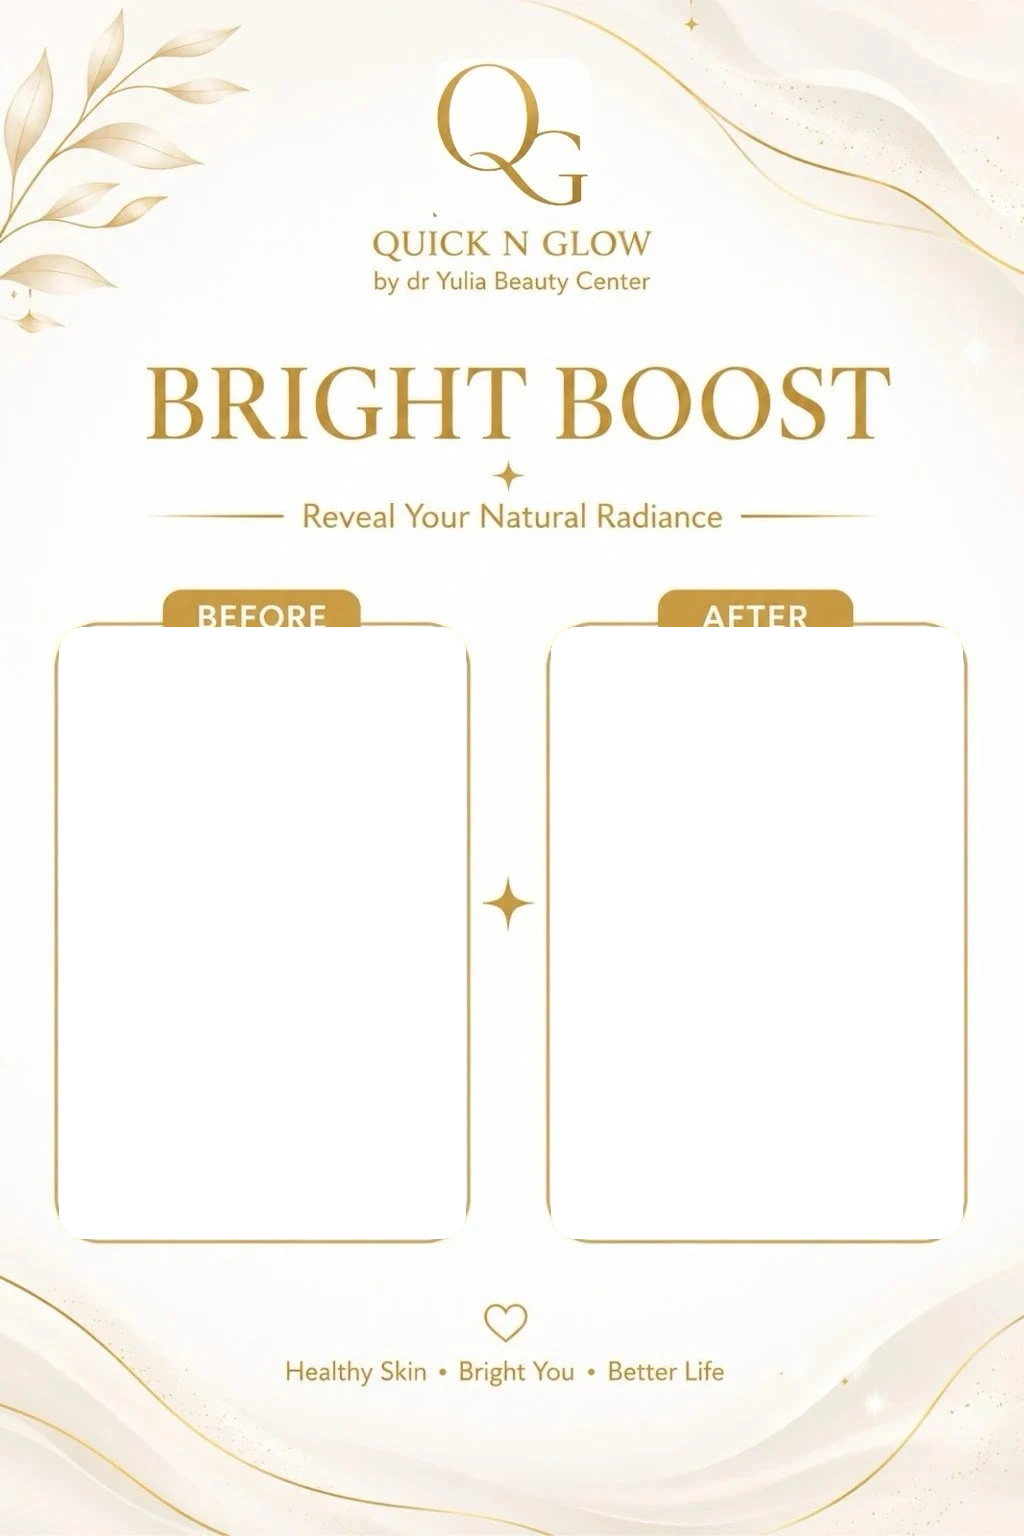
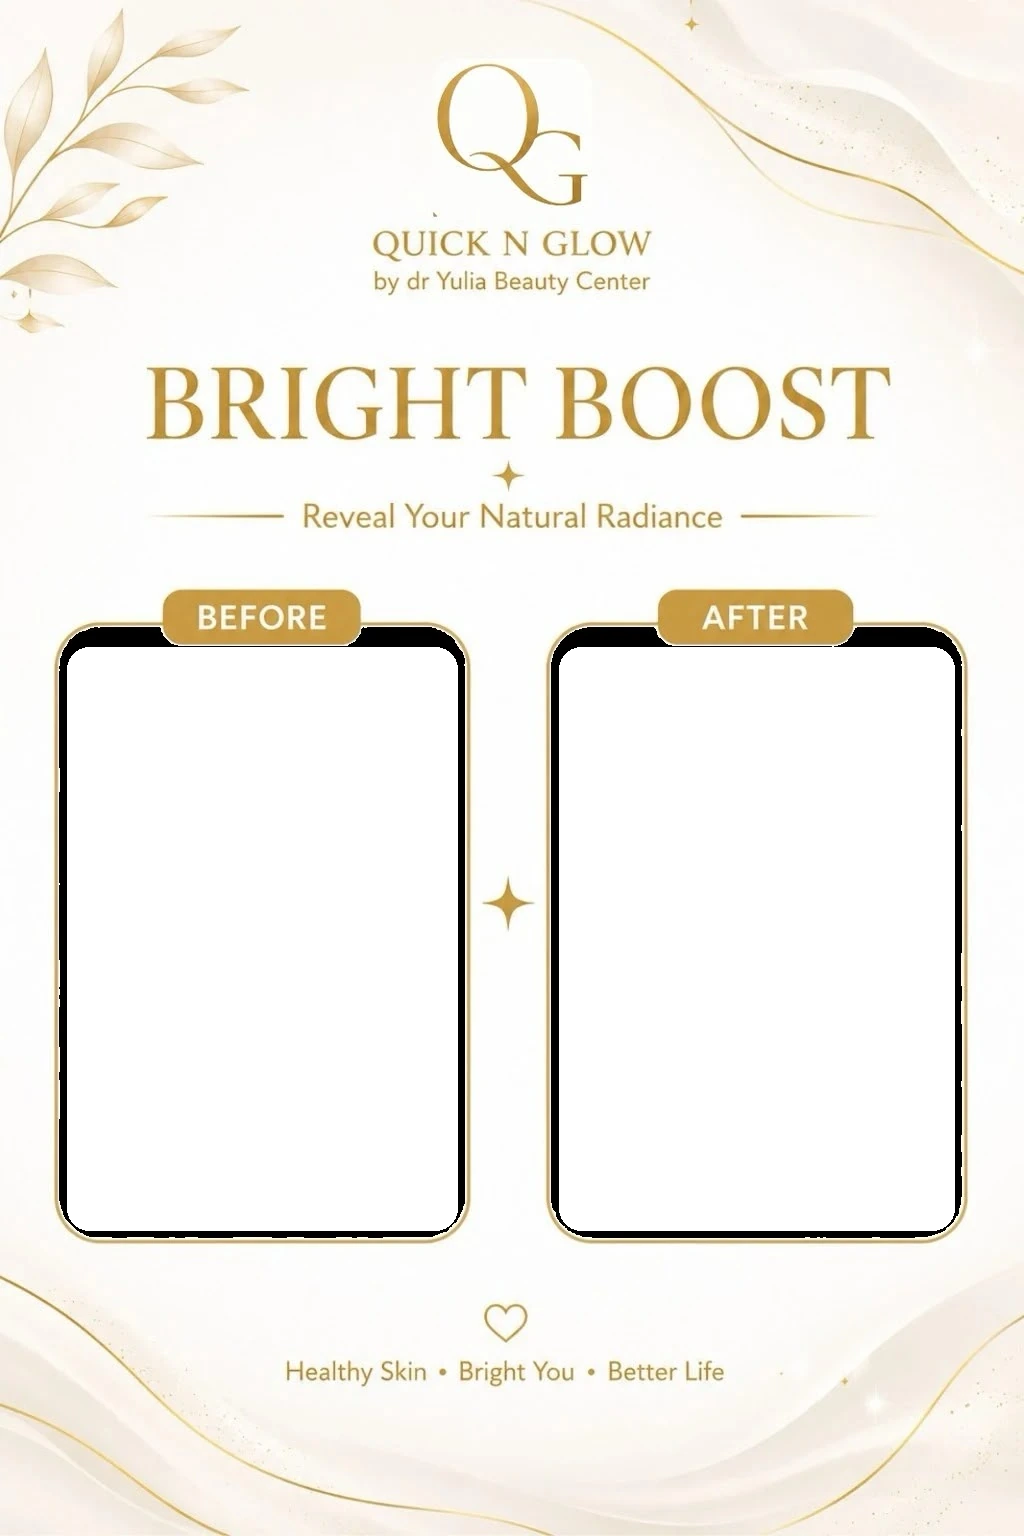
Perbesar jarak aman biar tidak kepotong

Changed region(s): [[0.5312, 0.4062, 0.9375, 0.8125], [0.0625, 0.4062, 0.4688, 0.8125], [0.0312, 0.4375, 0.0625, 0.7812]]

diff --git a/lib/templates.js b/lib/templates.js
@@ -17,8 +17,8 @@ export const treatments = [
       name: "Bright Template",
       image: "/templates/bright/bright1.webp",
       frame: "/templates/bright/bright1-frame.webp",
-      before: { x: 59, y: 627, width: 406, height: 611 },
-      after: { x: 551, y: 627, width: 411, height: 611 },
+      before: { x: 67, y: 647, width: 390, height: 583 },
+      after: { x: 559, y: 647, width: 395, height: 583 },
     },
   },
   {
@@ -29,8 +29,8 @@ export const treatments = [
       name: "Clear Template",
       image: "/templates/clear/clear1.webp",
       frame: "/templates/clear/clear1-frame.webp",
-      before: { x: 62, y: 619, width: 406, height: 606 },
-      after: { x: 552, y: 619, width: 410, height: 606 },
+      before: { x: 70, y: 639, width: 390, height: 578 },
+      after: { x: 560, y: 639, width: 394, height: 578 },
     },
   },
   {
@@ -41,8 +41,8 @@ export const treatments = [
       name: "Prime Template",
       image: "/templates/prime/prime1.webp",
       frame: "/templates/prime/prime1-frame.webp",
-      before: { x: 62, y: 643, width: 405, height: 589 },
-      after: { x: 552, y: 643, width: 403, height: 589 },
+      before: { x: 70, y: 663, width: 389, height: 561 },
+      after: { x: 560, y: 663, width: 387, height: 561 },
     },
   },
 ];
